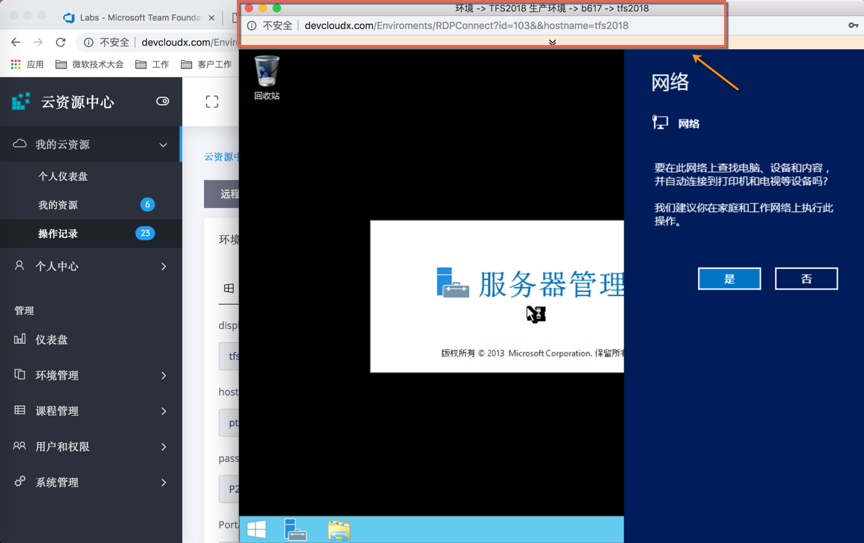
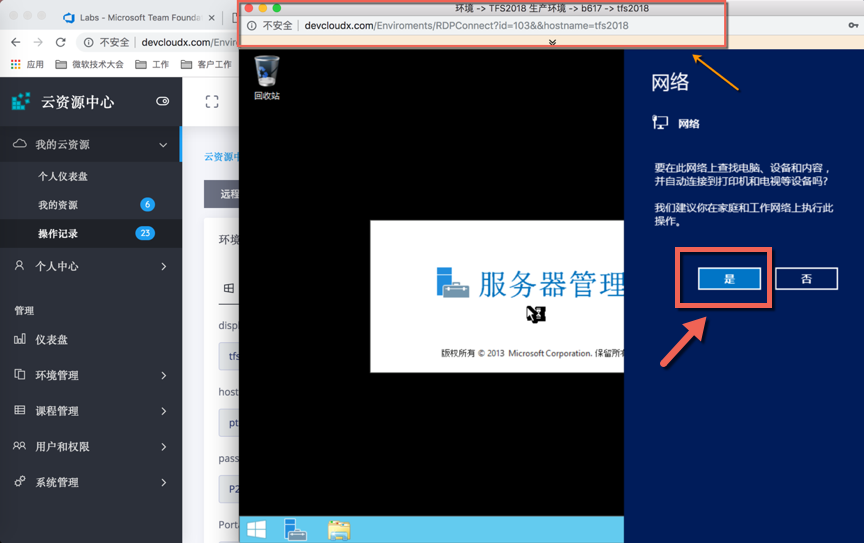
tfs server vm network setting update

Changed region(s): [[0.75, 0.442, 0.9062, 0.6777]]

diff --git a/src/labs/labs00-environment-preparation/index.md b/src/labs/labs00-environment-preparation/index.md
@@ -37,7 +37,7 @@
 ### 11. 通过点击以下链接可以分别进入TFS 服务器以及Linux代理服务器
 ![](images/preparestep9.png)
 
-### 12. TFS服务器进入后，如下图所示
+### 12. TFS服务器进入后，选中网络配置“是”，如下图所示
 ![](images/preparestep10.png)
 
 ### 13. Linux服务器进入后，如下图所示：
